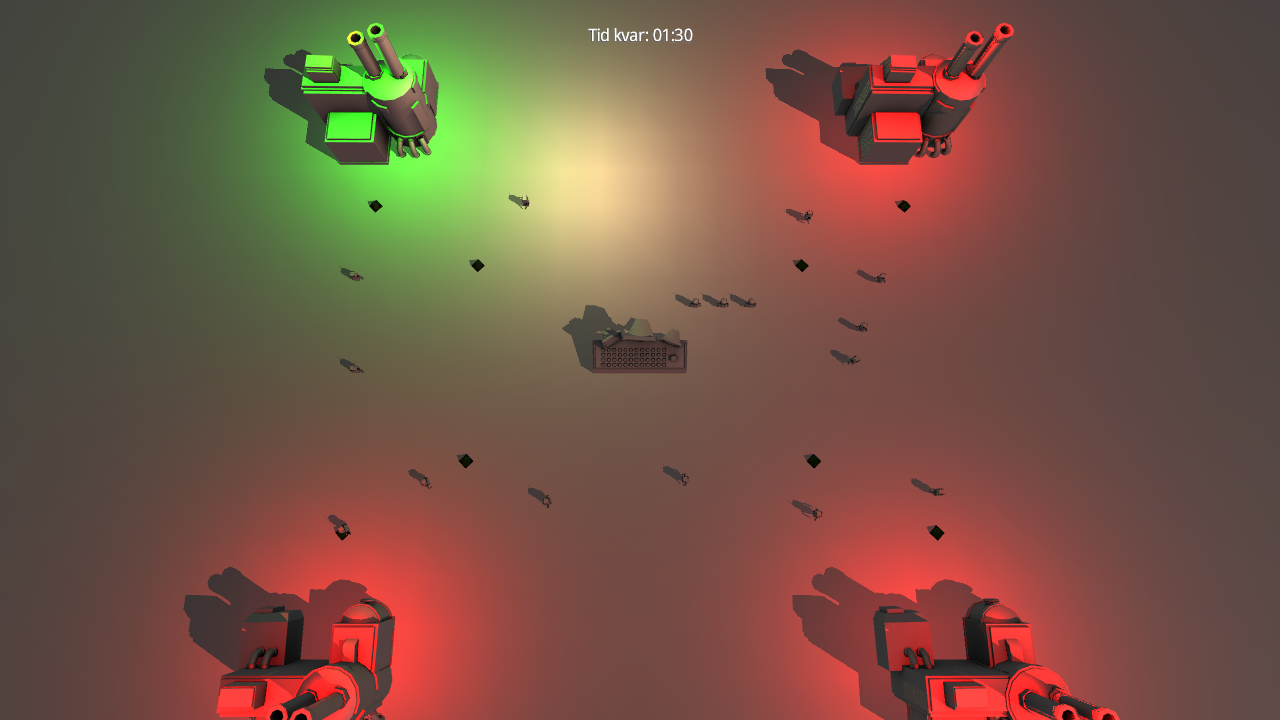
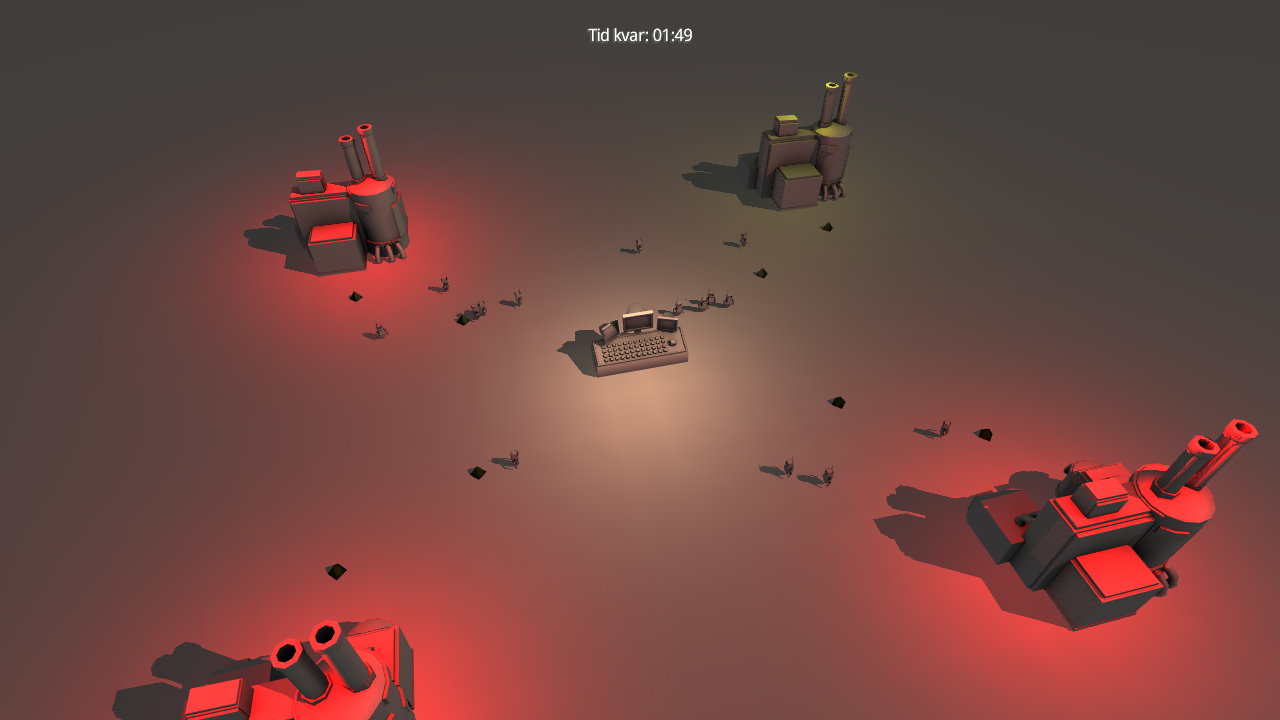
Fixed initation of lightlist

diff --git a/Project/core/src/com/projectdgdx/game/libgdx/GameWorld.java b/Project/core/src/com/projectdgdx/game/libgdx/GameWorld.java
@@ -32,8 +32,6 @@ import java.util.Random;
 public class GameWorld {
 	private PerspectiveCamera cam;
 	private List<Spotlight> lightList = new ArrayList<>();
-	private CameraInputController camController;
-
 	private HashMap<GameObject, GameObjectContainer> objectsMap = new HashMap<>();
 
 	//Bullet
@@ -47,8 +45,13 @@ public class GameWorld {
 	private Random rand = new Random();
 
 
+	public List<Spotlight> getLightList() {
+		return lightList;
+	}
+
 	public void init(List<GameObject> gameObjects) {
 		initPhysics();
+
 		createCamera();
 		generateGameObjectContainers(gameObjects);
 	}

diff --git a/Project/core/src/com/projectdgdx/game/controller/InGameState.java b/Project/core/src/com/projectdgdx/game/controller/InGameState.java
@@ -291,7 +291,7 @@ public class InGameState implements iGameState, iTimerListener, iEventListener {
 	public void start(ProjectD projectD) {
 		updateCamera(projectD);
 		renderer = new RenderManager();
-		renderer.init(lightList);
+		renderer.init(gameWorld.getLightList());
 		Timer.resumeTimers();
 		//TODO rename this method
 		initTimer();
